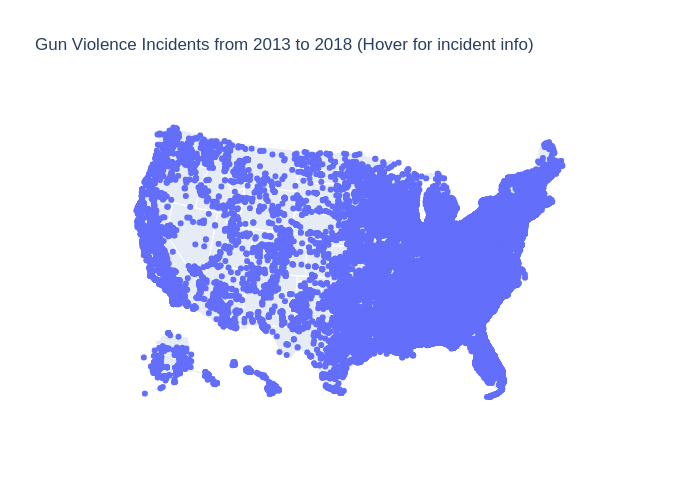
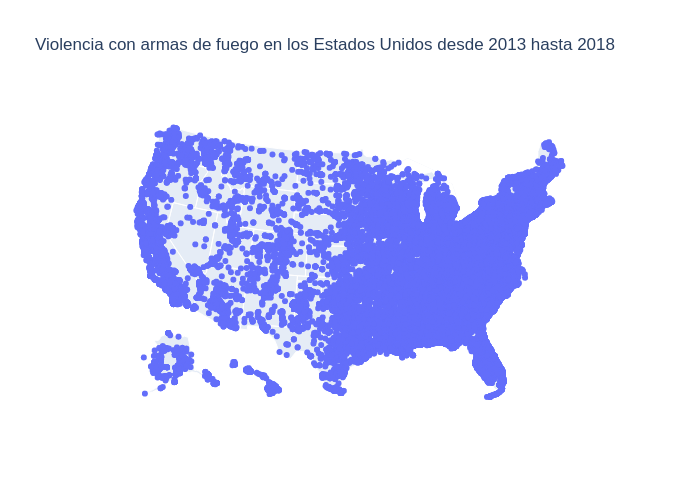
Práctica 4: El resto de gráficas

Changed region(s): [[0.06, 0.06, 0.87, 0.12]]

diff --git a/Práctica 4/Práctica 4.py b/Práctica 4/Práctica 4.py
@@ -2,6 +2,11 @@ import pandas as pd
 import plotly as pt
 import plotly.express as px
 import plotly.graph_objects as go
+from dateutil import parser
+import datetime
+
+#Práctica 4: Data visualization
+#Este script genera un archivo HTML interactivo y una imagen en png.
 
 def main():
     GVDdf = pd.read_csv("../Práctica 2/2013-01_2018-03.csv", index_col=0)
@@ -13,7 +18,7 @@ def main():
     incidentsPerMonth = pd.read_csv('../Práctica 3/casosPorMes.csv', index_col=0)
     locationsMostUsed = pd.read_csv('../Práctica 3/localizacionesMasRepetidas.csv', index_col=0)
     incidentsPerHThousand = pd.read_csv('../Práctica 3/MuertesPorCadaCienMil.csv', index_col=0)
-    perStatusAndType = pd.read_csv('../Práctica 3/porEstatusYTipo.csv', index_col=0)
+    perStatusAndType = pd.read_csv('../Práctica 3/porEstatusYTipo.csv')
     perGenderAndType = pd.read_csv('../Práctica 3/porGeneroYTipo.csv', index_col=0)
     perAgeGroupAndType = pd.read_csv('../Práctica 3/porGrupoEdadyTipo.csv', index_col=0)
     perGunStolen = pd.read_csv('../Práctica 3/porPistolaRobada.csv', index_col=0)
@@ -27,14 +32,14 @@ def main():
     incidentsPerMonth.rename(columns = {'sources':'incidents'}, inplace = True)
     incidentsPerState.rename(columns = {'date':'incidents'}, inplace = True)
     perStatusAndType.rename(columns = {'participant_age_group':'total_people'}, inplace = True)
-    perGenderAndType.rename(columns = {'participant_age':'total_people'}, inplace = True)
+    perGenderAndType.rename(columns = {'pairticipant_age':'total_people'}, inplace = True)
     perAgeGroupAndType.rename(columns = {'participant_age':'total_people'}, inplace = True)
     perGunStolen.rename(columns = {'gun_type':'total_guns'}, inplace = True)
     perParticipantRelationship.drop('participant_type', axis=1, inplace = True)
     perParticipantRelationship.rename(columns = {'participant_age_group':'incidents'}, inplace = True)
     perGunType.rename(columns = {'gun_stolen':'total_guns'}, inplace = True)   
 
-    '''
+    """ 
     print(perParticipantType)
     print(characteristicsMostUsed)
     print(incidentsPerYear)
@@ -49,7 +54,7 @@ def main():
     print(perGunStolen)
     print(perParticipantRelationship)
     print(perGunType)
-    '''
+    """
 
     ###Fig 1: Localización de todos los eventos
     GVDdf['IncidentInfo'] = GVDdf.date + '\n' + GVDdf.address + '\n' + GVDdf.notes #Subtitulo de cada punto
@@ -62,7 +67,7 @@ def main():
         ))
 
     everyIncidentMap.update_layout(
-        title = 'Gun Violence Incidents from 2013 to 2018 (Hover for incident info)',
+        title = 'Violencia con armas de fuego en los Estados Unidos desde 2013 hasta 2018',
         geo_scope='usa',
     )
 
@@ -73,7 +78,90 @@ def main():
     evolIncidentsTime = px.line(incidentsPerDay, x=incidentsPerDay.index, y='incidents', title='Cantidad de incidentes de violencia de armas de fuego en los Estados Unidos desde Enero del 2013 hasta Marzo del 2018')
     pt.offline.plot(evolIncidentsTime, filename="incidentesAlPasoDelTiempo.html")
     evolIncidentsTime.write_image("incidentesAlPasoDelTiempo.png")
+   
+    ##Fig 3: Genero de las víctimas y de los victimarios
+    vicSusGender = px.sunburst(perGenderAndType, path=[perGenderAndType.index,'participant_type'], values='participant_age')
+    pt.offline.plot(vicSusGender, filename="generoDeVictimasSuspechosos.html")
+    vicSusGender.write_image("generoDeVictimasSuspechosos.png")
+
+    ##Fig 4: Marcas de pistolas y tipos más utilizados
+    mostUsedGuns = px.pie(perGunType, values='total_guns', names=perGunType.index, title='Tipos de pistolas más utilizadas para violencia de armas')
+    pt.offline.plot(mostUsedGuns, filename="tiposPistolasMasUsadas.html")
+    mostUsedGuns.write_image("tiposPistolasMasUsadas.png")
+
+    ##Fig 5: Incidentes por estado (La densidad de población claramente importa)
+    #Necesito las coordenadas de los estados
+    containsCode4State = pd.read_csv('https://raw.githubusercontent.com/plotly/datasets/master/2011_us_ag_exports.csv')[['code', 'state']]
+    incidentsPerState = incidentsPerState.merge(containsCode4State, left_on='state', right_on='state', how='left')
+    amountIncidentsPerState = px.choropleth(incidentsPerState, locationmode='USA-states', locations='code', color='incidents',
+                                            color_continuous_scale="Reds",
+                                            scope="usa",
+                          )
+    amountIncidentsPerState.update_layout(title_text = 'Cantidad total de incidentes por estado', margin={"r":0,"t":0,"l":0,"b":0})
+    pt.offline.plot(amountIncidentsPerState, filename="incidentesPorEstado.html")
+    amountIncidentsPerState.write_image("incidentesPorEstado.png")
+
+    ##Fig 6: Cantidad de incidentes por N número de muertos 
+    perDeathCount = GVDdf.groupby(['n_killed']).count()
+    deathCountBox = px.bar(perDeathCount, x = perDeathCount.index , y=perDeathCount.date)
+    pt.offline.plot(deathCountBox, filename="cantidadDeMuertos.html")
+    deathCountBox.write_image("cantidadDeMuertos.png")
+
+    ##Fig 7: Cantidad de incidentes por N número de heridos
+    perInjuryCount = GVDdf.groupby(['n_injured']).count()
+    injuredCountBox = px.bar(perInjuryCount, x = perInjuryCount.index , y=perInjuryCount.date)
+    pt.offline.plot(injuredCountBox, filename="cantidadDeHeridos.html")
+    injuredCountBox.write_image("cantidadDeHeridos.png")
+
+    ##Fig 8: Por relación entre participantes
+    participantRelationshipPie = px.pie(perParticipantRelationship, values='incidents', names=perParticipantRelationship.index, color_discrete_sequence=px.colors.sequential.RdBu, title='Relaciones entre agresor y victima')
+    pt.offline.plot(participantRelationshipPie, filename="relacionesEntreParticipantes.html")
+    participantRelationshipPie.write_image("relacionesEntreParticipantes.png")
     
-    ##Fig 3: 
+    ##Fig 9: Porcentaje de el paradero de las pistolas (robadas o no)
+    #NOTA: En la tabla original hay 3 casos: Robada, no-robada y desconocido. En este pie chart
+    #se juntaron los casos de desconocido y no-robada.
+    wasGunStolenPie = px.pie(perGunStolen, values='total_guns', names=perGunStolen.index, color_discrete_sequence=px.colors.sequential.Greens, title='Paradero de la pistola')
+    pt.offline.plot(wasGunStolenPie, filename="paraderoDePistola.html")
+    wasGunStolenPie.write_image("paraderoDePistola.png")
+    
+    ##Fig 10: Ubicaciones con más incidencias.
+    mostViolentLocations  = px.pie(locationsMostUsed, values='Frequency', names='Word', title='Top 14 ubicaciones más violentas', color_discrete_sequence=px.colors.sequential.YlGn)
+    pt.offline.plot(mostViolentLocations, filename="ubicacionesMasViolentas.html")
+    mostViolentLocations.write_image("ubicacionesMasViolentas.png")
+
+    ##Fig 11: Atributos de los incidentes
+    commonincidentAttributes  = px.pie(characteristicsMostUsed, values='Frequency', names='Word', title='Atributos y caracteristicas de todos los incidentes', color_discrete_sequence=px.colors.sequential.Blues)
+    pt.offline.plot(commonincidentAttributes, filename="caracteristicasDeLosIncidentes.html")
+    commonincidentAttributes.write_image("caracteristicasDeLosIncidentes.png")
+
+    ##Fig 12: Edad de los participantes (victimas y victimarios)
+    vicSusAgeGroup = px.sunburst(perAgeGroupAndType, path=['participant_age_group',perAgeGroupAndType.index], values='total_people')
+    pt.offline.plot(vicSusAgeGroup, filename="edadDeVictimasSuspechosos.html")
+    vicSusAgeGroup.write_image("edadDeVictimasSuspechosos.png")
+
+    ##Fig 13: Estátus de los participantes (victimas y victimarios)
+    vicSusStatus = px.sunburst(perStatusAndType, path=['participant_type', perStatusAndType.index], values='total_people')
+    pt.offline.plot(vicSusStatus, filename="estatusDeVictimasSuspechosos.html")
+    vicSusStatus.write_image("estatusDeVictimasSuspechosos.png")
+
+    ##Fig 14: Cantidad de heridos (Box)
+    cantidadHeridosBox = px.box(incidentsPerHThousand, y='n_injured', points='all', title='Cantidad acomulada de heridos en EUA por Estado')
+    pt.offline.plot(cantidadHeridosBox, filename="promedioCantidadHeridos.html")
+    cantidadHeridosBox.write_image("promedioCantidadHeridos.png")
+    
+    ##Fig 15: Cantidad de muertos (Box)
+    cantidadMuertosBox = px.box(incidentsPerHThousand, y='n_killed', points='all', title='Cantidad acomulada de muertos en EUA por Estado')
+    pt.offline.plot(cantidadMuertosBox, filename="promedioCantidadMuertos.html")
+    cantidadMuertosBox.write_image("promedioCantidadMuertos.png")
+    
+    ##Fig 16: Muertos y heridos por cada 100,000 habitantes.
+    incidentsPerHThousand = incidentsPerHThousand.merge(containsCode4State, left_on='state', right_on='state', how='left')
+    deathsAndInjuriesPerH1000ByState = px.choropleth(incidentsPerHThousand, locationmode='USA-states', locations='code', color='deathsPerHThousand',color_continuous_scale="Purples",scope="usa", hover_data=['injuriesPerHThousand','n_injured','n_killed', '2020_Population'])
+    deathsAndInjuriesPerH1000ByState.update_layout(title_text = 'Cantidad de muertos y heridos por cada 100,000 habitantes', margin={"r":0,"t":0,"l":0,"b":0})
+    pt.offline.plot(deathsAndInjuriesPerH1000ByState, filename="muertesyHeridosPorCada100000PorEstado.html")
+    deathsAndInjuriesPerH1000ByState.write_image("muertesyHeridosPorCada100000PorEstado.png")
+
+    
 if __name__ == "__main__":
     main()
